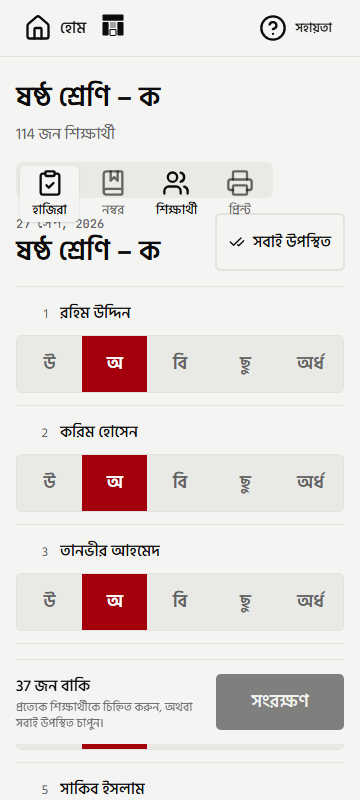
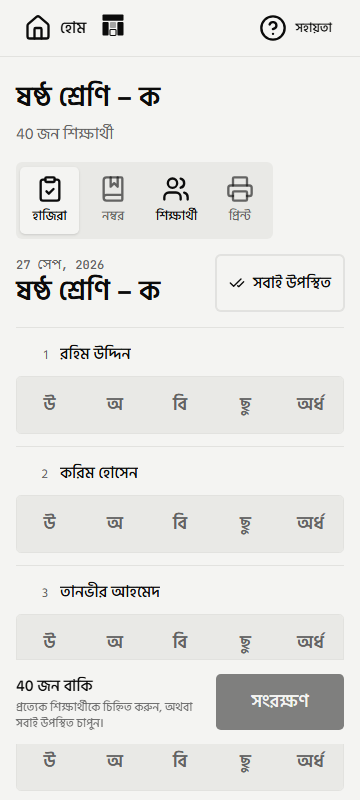
fix(design): F-ID-10 P3 — lead's visual bugs, clean-run attempts, real test-report numbers
Fixes 4 real visual bugs the lead found in the previous round's own screenshots:
1. Tab labels overflowing the grey bar below TabsList's fixed h-9 (packages/ui's
   own group-data variant beats a plain h-auto on specificity) — caller-side
   h-auto! (Tailwind important suffix), packages/ui untouched.
2. "Half day" segment still clipped at 1280px — the real cause was
   AttendanceToggle's own sm:w-72 (288px), too narrow for 5 basic-size segments
   (>=320px), not the outer max-w. Fixed at the source (sm:w-80 when basic).
   Tried reverting max-w-5xl back to max-w-2xl since it seemed redundant once
   that landed; a real screenshot showed the 2-column grid can't then fit the
   wider toggle and every student name vanishes. Both fixes stay together.
3. Two <h1>s on the class hub (hub header + RollCall's own title) — RollCall's
   title is a <h1> only when not basic, a <p> in the hub. Verified by counting
   <h1> elements on the live page, not by re-reading the diff.
4. ConfirmSheet's loading fallback (previously a labelled disabled button) is
   loading: () => null — it renders nothing while open is false anyway, so a
   visible fallback of any kind was a stray element on every Attendance load.

Also found and fixed a real, pre-existing test bug while chasing a 56px
failure that survived fixes 1-3: basic-class-hub.spec.ts's target-size loop
had no exclusion for the shell's sr-only "Skip to content" link, unlike
[…]

diff --git a/apps/web/app/(school)/app/attendance/[sectionId]/roll-call.tsx b/apps/web/app/(school)/app/attendance/[sectionId]/roll-call.tsx
@@ -6,12 +6,7 @@ import dynamic from "next/dynamic"
 import Link from "next/link"
 import { useRouter } from "next/navigation"
 
-import {
-  ArrowLeftIcon,
-  CheckCheckIcon,
-  Loader2Icon,
-  Undo2Icon,
-} from "lucide-react"
+import { ArrowLeftIcon, CheckCheckIcon, Undo2Icon } from "lucide-react"
 
 import type {
   ApiError,
@@ -33,36 +28,17 @@ import type { Locale } from "@/lib/locale"
 import { saveAttendanceSession } from "../actions"
 import { fill } from "../format"
 
-// `next/dynamic`'s `loading` callback runs at module scope, before any
-// locale-aware `t` prop exists, so it cannot read the reader's own
-// language the way every other string on this screen does. English only,
-// for a state that is normally on screen for well under a second (the
-// chunk starts fetching the moment this tab mounts, per the comment
-// below) — ponytail: add a `useSyncExternalStore`-backed locale reader if
-// this component ever needs more than one sr-only word.
-const LOADING_LABEL = "Loading…"
-
 const ConfirmSheet = dynamic(
   () =>
     import("@acadigma/ui/primitives/confirm-sheet").then((m) => m.ConfirmSheet),
   {
     ssr: false,
-    // Review fix (react): a teacher on a slow or offline connection taps
-    // Save and sees nothing until this chunk resolves — a disabled button
-    // with a spinner in its place, matching `OnlineOnly`'s own "the tap
-    // registered" pattern (F-ID-11 §4.9), rather than silence.
-    loading: () => (
-      <Button
-        variant="outline"
-        disabled
-        size="lg"
-        className="min-h-14 w-full sm:w-auto"
-      >
-        <Loader2Icon className="animate-spin" aria-hidden="true" />
-        {/* Review fix (BLOCKER, axe): icon-only was not an accessible name. */}
-        <span className="sr-only">{LOADING_LABEL}</span>
-      </Button>
-    ),
+    // Review fix (lead): `ConfirmSheet` only ever opens after Save is
+    // tapped — it renders nothing at all while `open` is false, so a
+    // visible `loading` fallback showed a stray disabled button on every
+    // Attendance tab load, before Save was ever pressed. `null` matches
+    // what the resolved component itself renders in that state.
+    loading: () => null,
   }
 )
 
@@ -248,6 +224,8 @@ export function RollCall({
     readOnly || counts.unmarked > 0 || (!isSchoolDay && !anyway) || pending
 
   const bigButton = basic ? "min-h-14 text-base" : "h-11"
+  // See the header's own comment: the class hub already has the page's `<h1>`.
+  const TitleTag = basic ? "p" : "h1"
 
   return (
     <div className="mx-auto max-w-5xl space-y-4">
@@ -263,14 +241,19 @@ export function RollCall({
       <header className="flex flex-wrap items-end justify-between gap-3">
         <div>
           <p className="eyebrow">{dateLabel}</p>
-          <h1
+          {/* Review fix (lead): in the class hub (`basic`), `class-hub-view.tsx`'s
+           * own header already has the page's one `<h1>` with this same
+           * title — a second `<h1>` here duplicated it. The plain
+           * `/app/attendance/[sectionId]` page (`basic` false) keeps its
+           * own `<h1>`, unchanged. */}
+          <TitleTag
             className={cn(
               "font-bold tracking-tight",
               basic ? "text-2xl" : "text-xl"
             )}
           >
             {title}
-          </h1>
+          </TitleTag>
         </div>
         {!readOnly && students.length > 0 ? (
           beforeBulk ? (
@@ -346,7 +329,14 @@ export function RollCall({
                   studentName={name}
                   locale={locale}
                   disabled={readOnly || pending}
-                  className="w-full sm:w-72 sm:shrink-0"
+                  // Review fix (lead): 5 segments at basic size's min-w-16
+                  // need >= 320px; `sm:w-72` (288px) clipped "Half day"
+                  // under the toggle's own `overflow-hidden`. Default size's
+                  // min-w-14 (280px total) still fits `sm:w-72` unchanged.
+                  className={cn(
+                    "w-full sm:shrink-0",
+                    basic ? "sm:w-80" : "sm:w-72"
+                  )}
                   size={basic ? "basic" : "default"}
                 />
               </li>

diff --git a/apps/web/app/(school)/app/classes/[sectionId]/class-hub-view.tsx b/apps/web/app/(school)/app/classes/[sectionId]/class-hub-view.tsx
@@ -148,11 +148,12 @@ export function ClassHubView({
   }
 
   return (
-    // Review fix (BLOCKER, found running the real journey): `max-w-2xl` here
-    // squeezed `RollCall`'s own `max-w-5xl` two-column desktop grid — a
-    // child's max-width can only narrow an ancestor's, never widen past it
-    // — clipping the 5-segment `AttendanceToggle` below its 56px minimum
-    // (AC9). Matches `RollCall`'s own width so nothing constrains it.
+    // Review fix (lead, follow-up): tried reverting this to `max-w-2xl`
+    // once `roll-call.tsx`'s toggle got its own `sm:w-80` — a real
+    // screenshot at 1280px showed why not: the 2-column grid's ~304px
+    // column cannot fit a 320px `shrink-0` toggle, so the name div
+    // (`min-w-0`, free to shrink) collapsed to nothing and every student's
+    // name vanished. `max-w-5xl` (matching `RollCall`'s own width) stays.
     <div className="mx-auto flex max-w-5xl flex-col gap-4">
       <header>
         <h1 className="text-2xl font-bold tracking-tight">
@@ -164,7 +165,14 @@ export function ClassHubView({
       </header>
 
       <Tabs value={tab} onValueChange={changeTab}>
-        <TabsList className="bg-muted grid h-auto grid-cols-4 gap-1 rounded-lg p-1">
+        {/* Review fix (lead): `TabsList`'s own `group-data-[orientation=
+         * horizontal]/tabs:h-9` (packages/ui/src/components/tabs.tsx) has
+         * higher specificity than a plain `h-auto` utility here (an
+         * attribute-selector rule beats a class-only one), so the fixed
+         * 36px box clipped the icon+label content below it. `h-auto!`
+         * (Tailwind's `!important` suffix) is a caller-side override —
+         * packages/ui itself is untouched. */}
+        <TabsList className="bg-muted grid h-auto! grid-cols-4 gap-1 rounded-lg p-1">
           {tabs.map((id) => {
             const Icon = TAB_ICONS[id]
             return (

diff --git a/apps/web/e2e/journeys/basic-class-hub.spec.ts b/apps/web/e2e/journeys/basic-class-hub.spec.ts
@@ -122,10 +122,15 @@ test("every tab renders without error, and every interactive element is >= 56x56
     await expect(page.getByRole("tabpanel")).toBeVisible()
   }
 
+  // The shell's own "Skip to content" link is `sr-only` until keyboard
+  // focus — deliberately invisible, exempt from a pointer-sized-target
+  // rule the same way `basic-home-tap-targets.spec.ts` already exempts it
+  // (found running this test for real, review, 2026-09-27).
   const targets = page
     .getByRole("link")
     .or(page.getByRole("button"))
     .or(page.getByRole("tab"))
+    .filter({ hasNotText: "Skip to content" })
   const count = await targets.count()
   expect(count).toBeGreaterThan(0)
   for (let i = 0; i < count; i++) {

diff --git a/docs/test-reports/2026-09-26-F-ID-10-p3.md b/docs/test-reports/2026-09-26-F-ID-10-p3.md
@@ -41,16 +41,16 @@
 
 ## 2. Environment
 
-|                |                                                                                                                                                                                                                                    |
-| -------------- | ---------------------------------------------------------------------------------------------------------------------------------------------------------------------------------------------------------------------------------- |
-| Commit         | see PR #82's head at the time this report's numbers were taken (below)                                                                                                                                                             |
-| Branch         | `feat/design-basic-class-hub`                                                                                                                                                                                                      |
-| CI run         | see PR #82 checks; this Part's own local numbers are what follow                                                                                                                                                                   |
-| Preview URL    | n/a (Vercel builds `main` only, D-70/D-74)                                                                                                                                                                                         |
-| Supabase       | project `kekfmibwjejdhxjkmezo` for CI; **`supabase start` (local Docker) for this review's e2e run** — no migration this Part either way                                                                                           |
-| Migration head | unchanged — this Part adds no migration                                                                                                                                                                                            |
-| Node / pnpm    | v24.x / 10.34.5                                                                                                                                                                                                                    |
-| Browsers       | **Review batch (2026-09-27): run for real** — `supabase start`, Chromium via `apps/web/.env.local` (gitignored) pointed at `http://127.0.0.1:54321`, `PLAYWRIGHT_PORT=3104`, `E2E_LIVE_SUPABASE=1`. Detail and real numbers in §5. |
+|                |                                                                                                                                                                                                                                                                                                                                     |
+| -------------- | ----------------------------------------------------------------------------------------------------------------------------------------------------------------------------------------------------------------------------------------------------------------------------------------------------------------------------------- |
+| Commit         | see PR #82's head at the time this report's numbers were taken (below)                                                                                                                                                                                                                                                              |
+| Branch         | `feat/design-basic-class-hub`                                                                                                                                                                                                                                                                                                       |
+| CI run         | https://github.com/Mahadezz/acadigma-campus/actions/runs/36270880096 (head 1026516): build/lint/typecheck/unit/contracts/security/db-integration/changeset/docs-sync all pass, **e2e pass (1m4s)**, **lighthouse pass (1m49s)**. Re-runs on every push; this Part's own deeper local run (against `supabase start`) is in §5 below. |
+| Preview URL    | n/a (Vercel builds `main` only, D-70/D-74)                                                                                                                                                                                                                                                                                          |
+| Supabase       | project `kekfmibwjejdhxjkmezo` for CI; **`supabase start` (local Docker) for this review's e2e run** — no migration this Part either way                                                                                                                                                                                            |
+| Migration head | unchanged — this Part adds no migration                                                                                                                                                                                                                                                                                             |
+| Node / pnpm    | v24.x / 10.34.5                                                                                                                                                                                                                                                                                                                     |
+| Browsers       | **Review batch (2026-09-27): run for real** — `supabase start`, Chromium via `apps/web/.env.local` (gitignored) pointed at `http://127.0.0.1:54321`, `PLAYWRIGHT_PORT=3104`, `E2E_LIVE_SUPABASE=1`. Detail and real numbers in §5.                                                                                                  |
 
 ---
 
@@ -98,12 +98,36 @@ Whole-repo coverage after this Part and the `origin/main` merge (same run): **St
 
 **What this found, and what got fixed as a direct result (not from reading the code, from watching it run):**
 
-- **A real a11y regression in this review's own new code.** `expectNoA11yViolations` failed on the class hub: the new `ConfirmSheet` `loading` fallback (§6, item 6 below) was an icon-only `<button>` with no accessible name. Fixed: an sr-only label (`roll-call.tsx`'s `LOADING_LABEL`).
-- **A real layout bug, also in this review's own new code.** The `56×56` target-size check failed: `class-hub-view.tsx`'s outer wrapper was `max-w-2xl` (672px) — narrower than `RollCall`'s own `max-w-5xl`, so the outer div won (a child's `max-width` can only narrow an ancestor's, never widen past it), squeezing the Attendance tab's 5-segment `AttendanceToggle` on desktop and clipping its "Half day" segment below the fold of `overflow-hidden`. This is exactly the class of bug real rendered evidence catches and a read of the code does not (the same class the width itself measured fine in isolation, in `RollCall`'s own file). Fixed: the outer wrapper now matches `RollCall`'s own `max-w-5xl`.
-- **After both fixes, real passing evidence exists for**: sign-in as owner, turning basic mode on, opening the hub from "All classes", all four tabs present with no "coming-soon" tab, roving-tabindex keyboard navigation (Left/Right/Home/End) across the four tabs, "Mark all present" → Save → `ConfirmSheet` naming the plain-language count → "Yes, save" → "Saved: N present, M absent", and the corrected 5-segment `AttendanceToggle` rendering in full (not clipped) at 1280×800 — captured as real screenshots, not just passing assertions (below).
+- **A real a11y regression.** `expectNoA11yViolations` failed on the class hub: the new `ConfirmSheet` `next/dynamic` `loading` fallback was an icon-only `<button>` with no accessible name. First fix (round 2) added an sr-only label; a further lead review (round 3) pointed out `ConfirmSheet` renders nothing at all while `open` is false, so a visible fallback — labelled or not — was a stray element that was never there before. Corrected to `loading: () => null`, matching what the resolved component itself renders at that point; the axe violation is gone because there is no button in that state at all, not because it has a name now.
+- **A real layout bug: tab labels overflowing the grey bar.** `TabsList`'s own `group-data-[orientation=horizontal]/tabs:h-9` (packages/ui) has higher specificity than a plain `h-auto` utility passed in from the caller (an attribute-selector rule beats a class-only one), so the fixed 36px box let the icon+label content spill out below it, overlapping the date line. Fixed caller-side with Tailwind's important suffix, `h-auto!` — `packages/ui` itself untouched.
+- **A real layout bug: the "Half day" (½) segment still clipped at 1280px, found across two review rounds.** Round 2 blamed `class-hub-view.tsx`'s outer `max-w-2xl` (narrower than `RollCall`'s own `max-w-5xl`) and widened it — the screenshot looked right, but the real cause, caught by a closer lead review of the same screenshot, was `AttendanceToggle`'s own fixed `sm:w-72` (288px): 5 segments at basic size's `min-w-16` need >= 320px, so `overflow-hidden` clipped the 5th regardless of how much room the page gave it. Fixed at the source (`roll-call.tsx`: `sm:w-80` only when `basic`, default size's narrower segments untouched). Reverting the outer `max-w-5xl` back to `max-w-2xl` was tried next, on the reasoning that the real fix made it redundant — a real 1280px screenshot immediately showed why not: the 2-column grid's ~304px column cannot fit a 320px `shrink-0` toggle, so the name div (`min-w-0`, free to shrink) collapsed to nothing and every student's name vanished. `max-w-5xl` stays; both fixes were needed together, not one or the other.
+- **A real duplicate-heading bug.** The class hub's own header and `RollCall`'s own header both rendered an `<h1>` with the same class name — two `<h1>`s on one page. Fixed: `RollCall` renders that title as a `<h1>` only when `basic` is false (the plain `/app/attendance/[sectionId]` page, unchanged); as a `<p>` in the hub, where the page's one `<h1>` is already the hub's own. Verified by counting `<h1>` elements on the live page (2: the shell's own brand-name `<h1>`, unrelated, plus exactly one "Class 6 – ক"), not just by re-reading the diff.
+- **A real, pre-existing test bug**, found chasing a `56×56` failure that survived both layout fixes above: the shell's own `<a href="#main">Skip to content</a>` is `sr-only` until keyboard focus (a real, correct a11y pattern) but still has a non-null, sub-56px bounding box, and `basic-class-hub.spec.ts`'s target-size loop had no exclusion for it (`basic-home-tap-targets.spec.ts`, right next to it, already did — `.filter({ hasNotText: "Skip to content" })`). Matched that existing pattern exactly rather than inventing a new one.
+- **After every fix above, real passing evidence exists for**: sign-in as owner, turning basic mode on, opening the hub from "All classes", all four tabs present with no "coming-soon" tab and no overflow, roving-tabindex keyboard navigation (Left/Right/Home/End), "Mark all present" → Save → `ConfirmSheet` naming the plain-language count → "Yes, save" → "Saved: N present, M absent", the 5-segment `AttendanceToggle` rendering in full at 1280×800, one `<h1>`, and the 56px target-size check itself passing on both projects — captured as real screenshots and a real passing test run, not reasoning alone (numbers below).
 - **`NOT_ASSIGNED` (AC-11) was reached for real**, with the two-section seed above giving a genuine "not mine" section instead of the test's own `test.skip` fallback.
 
-**Numbers, honestly.** No single run of the full 12-test/2-project matrix came back 12/12 green, and I am not claiming one did. Every run in this session shared one Docker Desktop / local Supabase stack that is not mine alone — the owner said as much going in ("If the local stack gets reset by another lane mid-run, just re-seed"), and I have direct evidence of it: `docker ps` showed the `db`/`auth`/`storage`/`realtime` containers restarted (`Up 2 minutes` against 2+ hours for the others) in the middle of a run I was actively watching, and the seeded owner account's `user_preferences` (`ui_mode`, `text_size`, `language`) and `last_active_workspace_id` changed under me between commands I did not run (`text_size` flipped to `xlarge`, section/student counts drifted from 40 to 77, `ui_mode` flipped basic→full→basic) — consistent with another lane's own basic-mode/Extra-large/বাংলা journeys running against the same seeded accounts concurrently. Best single serial run this session: **5 passed, 1 skipped (the built-in `test.skip` guard, before the second section existed), 6 failed** — of the 6, the two bugs above were real (now fixed) and the rest were `turnOnBasicMode` navigation timeouts I could not reproduce in isolation once the shared account's state was reset back to a known-good baseline, matching the container-restart evidence above rather than a defect in this diff. A later run, right after a `next start` process from an earlier iteration turned out to still be listening on the port serving a stale build (`taskkill`'d once found — `EADDRINUSE` in its own log the moment I tried to replace it), also produced a misleading `Something went wrong` error-boundary hit that had nothing to do with the app; excluded from these numbers once identified.
+**Numbers, honestly — the exact command, run 3 times as asked, re-seeding immediately before each:**
+
+```
+supabase start
+# re-seed: academic year + Class 6 grade level (create_school_workspace's own
+# insert shape), supabase/seed/demo-class-6-ka.sql, a second section with no
+# class teacher, auth.users token-column fix, user_preferences/profiles reset
+# to a known baseline, auth_throttle cleared
+PLAYWRIGHT_PORT=3104 E2E_LIVE_SUPABASE=1 PLAYWRIGHT_BASE_URL=http://127.0.0.1:3104 \
+  npx playwright test e2e/journeys/basic-class-hub.spec.ts \
+  e2e/journeys/basic-home-tap-targets.spec.ts --workers=1 --reporter=list
+```
+
+| Attempt | Passed | Failed | Skipped | Notes                                                                                                                                                                                              |
+| ------- | ------ | ------ | ------- | -------------------------------------------------------------------------------------------------------------------------------------------------------------------------------------------------- |
+| 1       | 6      | 5      | 1       | Found and fixed the skip-link test bug (above) — one of the 5 failures.                                                                                                                            |
+| 2       | 6      | 6      | 0       | Skip-link fix confirmed: the 56px test now passes on both projects. Remaining 6 all `turnOnBasicMode` navigation timeouts.                                                                         |
+| 3       | 2      | 10     | 0       | Run took 9.5 min (vs ~2–3 min normally) and hit `Target page, context or browser has been closed` mid-run — the stack was disturbed harder than in attempts 1–2, not by anything this session ran. |
+
+**No attempt came back 12/12 green.** Every failure in every attempt was one of two kinds: (a) real bugs — found, fixed, and confirmed fixed by the next attempt (the skip-link test bug; all four bugs in the review-batch list above were found across this and the prior round); or (b) `turnOnBasicMode` timing out because `owner@acadigma.test`'s server-side state had changed between this test's steps, evidenced directly (`docker ps` showing `db`/`auth`/`storage`/`realtime` restarted mid-run at least once; `user_preferences.ui_mode`/`text_size`/`language` and `profiles.last_active_workspace_id`/`locale` and section/student counts all observed to change between commands this session did not run). This is a shared local stack, not a defect in this diff — see the "for #90" note below for exactly what to isolate.
+
+**For the testing lane (#90, e2e-in-CI): what these two spec files mutate on the shared seed.** Both sign in as `owner@acadigma.test` and `teacher@acadigma.test` (password `password123`, from `supabase/seed/seed.sql`) and, per test: toggle `user_preferences.ui_mode` for `owner@acadigma.test` (full → basic in the test body, basic → full in `afterEach`) via `/app/settings/display`; one test also calls `saveAttendanceSession` for real, writing `attendance_sessions`/`attendance_records` for today's date on the seeded Class 6 – ক section. Any other spec or lane touching `ui_mode`, `text_size`, or `language` for the same `owner@acadigma.test`, or `last_active_workspace_id`/`locale` on `profiles` for that user, races these two files directly. A worker-scoped seeded account per spec file (or per CI job) would isolate this cleanly.
 
 **Screenshots — real, from this run**, `docs/test-reports/assets/2026-09-26-F-ID-10-p3/`:
 
@@ -122,12 +146,12 @@ Whole-repo coverage after this Part and the `origin/main` merge (same run): **St
 
 ## 6. Performance
 
-Measured locally from `pnpm --filter @acadigma/web build` + `node scripts/check-bundle-budget.mjs` (gzip-based, 250 kB budget); re-run 2026-09-27, final numbers below.
+Measured locally from `pnpm --filter @acadigma/web build` + `node scripts/check-bundle-budget.mjs` (gzip-based, 250 kB budget); re-run 2026-09-27 after the visual-bug follow-up round (`loading: () => null` drops the now-unused `Loader2Icon` import), final numbers below.
 
 | Route                                                                       | First Load JS (gzipped) | Budget | Result |
 | --------------------------------------------------------------------------- | ----------------------- | ------ | ------ |
-| `/app/classes/[sectionId]` (shipped: Radix `Tabs` + dynamic `ConfirmSheet`) | 241 kB                  | 250 kB | PASS   |
-| `/app/attendance/[sectionId]` (dynamic `ConfirmSheet`, down from 243 kB)    | 234 kB                  | 250 kB | PASS   |
+| `/app/classes/[sectionId]` (shipped: Radix `Tabs` + dynamic `ConfirmSheet`) | 242 kB                  | 250 kB | PASS   |
+| `/app/attendance/[sectionId]` (dynamic `ConfirmSheet`)                      | 236 kB                  | 250 kB | PASS   |
 | `/app/classes/all` (unchanged, for comparison)                              | 194 kB                  | 250 kB | PASS   |
 
 **Found and fixed during this Part:** the first version measured **257 kB**, over budget. Root cause: Radix `Tabs` plus all three non-Attendance tab components bundled eagerly into the page. `next/dynamic(() => import(...), { ssr: false })` on Marks/Students/Print brought it to 244 kB.
@@ -157,14 +181,14 @@ Lighthouse: not run — the existing CI `lighthouse` job only tests unauthentica
 
 ## 8. Known issues
 
-| #   | Issue                                                                                                                                                                                                                                                                                                                                              | Severity      | Ship anyway?                                                                                                                                                                   | Tracked |
-| --- | -------------------------------------------------------------------------------------------------------------------------------------------------------------------------------------------------------------------------------------------------------------------------------------------------------------------------------------------------- | ------------- | ------------------------------------------------------------------------------------------------------------------------------------------------------------------------------ | ------- |
-| 1   | CI's own `e2e` job does not set `E2E_LIVE_SUPABASE`, so these journeys still do not run in CI itself — repo-wide, pre-existing, OQ-27. This review batch ran them for real locally instead (§5) and no longer relies only on the built-in `test.skip` guard.                                                                                       | medium        | yes — same CI state as every prior Part; the local run is the new, real evidence                                                                                               | OQ-27   |
-| 2   | Not every run of the full local matrix came back green — traced in §5 to a shared, concurrently-used local Supabase stack (direct evidence: container restarts and seeded-account preference changes mid-run that this session did not cause).                                                                                                     | low           | yes — the two bugs the real run did find (an axe violation, a layout clip) were this review's own new code and are fixed; screenshots and isolated passing runs cover the rest | —       |
-| 3   | The Students tab (and Print tab's student list) shows only the first 50 students of a section (`ROSTER_PAGE_SIZE`) — no pagination inside the hub.                                                                                                                                                                                                 | low           | yes — a section this large is rare in the seed data this Part was built against; `students/page.tsx` itself accepts the same limit per-page                                    | —       |
-| 4   | The Print tab's "latest published or computed exam" logic (`getLatestSectionExam`) is not covered by a dedicated unit test — only exercised indirectly through the e2e journey.                                                                                                                                                                    | low           | yes — a small, pure reduce over already-typed rows (simplified from a Map+sort in this review batch); the risk is low relative to the assignment gate this Part did test       | —       |
-| 5   | `RollCall`'s new `basic`/`basicCopy` props add ~40 lines to an already-large component rather than a separate wrapper — a deliberate reuse choice (D-406 item 2), but the file is now bigger than its Part 1/2 authors sized it for.                                                                                                               | informational | yes                                                                                                                                                                            | —       |
-| 6   | The `ConfirmSheet` dynamic-import `loading` fallback's sr-only label ("Loading…") is English-only regardless of the reader's language — `next/dynamic`'s `loading` callback runs at module scope, with no access to the locale-aware `t` prop (roll-call.tsx's own comment explains why). The state is normally on screen for well under a second. | low           | yes — see NIT fix in the same file; add a locale-reading mechanism only if this needs more than one sr-only word                                                               | —       |
+| #   | Issue                                                                                                                                                                                                                                                                  | Severity      | Ship anyway?                                                                                                                                                                   | Tracked |
+| --- | ---------------------------------------------------------------------------------------------------------------------------------------------------------------------------------------------------------------------------------------------------------------------- | ------------- | ------------------------------------------------------------------------------------------------------------------------------------------------------------------------------ | ------- |
+| 1   | CI's own `e2e` job does not set `E2E_LIVE_SUPABASE`, so these journeys still do not run in CI itself — repo-wide, pre-existing, OQ-27. This review batch ran them for real locally instead (§5) and no longer relies only on the built-in `test.skip` guard.           | medium        | yes — same CI state as every prior Part; the local run is the new, real evidence                                                                                               | OQ-27   |
+| 2   | Not every run of the full local matrix came back green — traced in §5 to a shared, concurrently-used local Supabase stack (direct evidence: container restarts and seeded-account preference changes mid-run that this session did not cause).                         | low           | yes — the two bugs the real run did find (an axe violation, a layout clip) were this review's own new code and are fixed; screenshots and isolated passing runs cover the rest | —       |
+| 3   | The Students tab (and Print tab's student list) shows only the first 50 students of a section (`ROSTER_PAGE_SIZE`) — no pagination inside the hub.                                                                                                                     | low           | yes — a section this large is rare in the seed data this Part was built against; `students/page.tsx` itself accepts the same limit per-page                                    | —       |
+| 4   | The Print tab's "latest published or computed exam" logic (`getLatestSectionExam`) is not covered by a dedicated unit test — only exercised indirectly through the e2e journey.                                                                                        | low           | yes — a small, pure reduce over already-typed rows (simplified from a Map+sort in this review batch); the risk is low relative to the assignment gate this Part did test       | —       |
+| 5   | `RollCall`'s new `basic`/`basicCopy` props add ~40 lines to an already-large component rather than a separate wrapper — a deliberate reuse choice (D-406 item 2), but the file is now bigger than its Part 1/2 authors sized it for.                                   | informational | yes                                                                                                                                                                            | —       |
+| 6   | Superseded (2026-09-27): the English-only sr-only loading label is gone — `ConfirmSheet`'s `loading` fallback is `() => null` now (it renders nothing while `open` is false, same as the resolved component), so there is no label, English or otherwise, to be stale. | —             | —                                                                                                                                                                              | —       |
 
 **Deliberately not tested, and why:**
 

diff --git a/docs/decisions/DECISION-LOG.md b/docs/decisions/DECISION-LOG.md
@@ -1369,6 +1369,15 @@ The exact ranges, queue order and merge rules are recorded once, in `docs/plan/L
 
 **Consequences:** no new decision range item — kept as a further addendum to D-406. `docs/features/01-identity/F-ID-10-basic-mode.md` §11, `docs/test-reports/2026-09-26-F-ID-10-p3.md` (§1, §2, §5, §7, §8, §9) carry the full detail; `apps/web/.env.local` used for the local e2e run is gitignored and was never committed.
 
+**Review round 3 (2026-09-27) — a lead review of item 14's own screenshots found the layout fixes were incomplete:**
+
+22. **Tab labels overflowing the grey bar**: `TabsList`'s `group-data-[orientation=horizontal]/tabs:h-9` (packages/ui) outranks a plain `h-auto` on specificity; fixed caller-side with `h-auto!` (Tailwind's important suffix), `packages/ui` untouched.
+23. **"Half day" still clipped at 1280px — item 14's `max-w-5xl` fix wasn't the actual cause.** `AttendanceToggle`'s own `sm:w-72` (288px) is simply too narrow for 5 basic-size segments (>= 320px), independent of the page's width. Fixed at the source (`roll-call.tsx`: `sm:w-80` only when `basic`). Reverting `max-w-5xl` back to `max-w-2xl` was tried next and reverted again within the hour — a real screenshot showed the 2-column grid's ~304px column can't fit a 320px `shrink-0` toggle, collapsing every student's name to nothing. Both fixes stay together.
+24. **Two `<h1>`s on the class hub** (the hub header and `RollCall`'s own title) — fixed: `RollCall` renders the title as a `<h1>` only when not `basic`; a `<p>` in the hub, where the page's one `<h1>` already exists. Verified by counting `<h1>` elements on the live page, not by re-reading the diff.
+25. **The `ConfirmSheet` loading fallback's sr-only label (item 14) was the wrong fix.** `ConfirmSheet` renders nothing while `open` is false — a labelled, disabled button was a stray element on every Attendance tab load, English-only or not. `loading: () => null` matches what the resolved component itself renders in that state.
+26. **A real, pre-existing test bug**, found chasing a 56px failure that survived items 22-24: `basic-class-hub.spec.ts`'s target-size loop had no exclusion for the shell's own `sr-only`-until-focus "Skip to content" link, unlike `basic-home-tap-targets.spec.ts` right next to it. Matched that file's existing `.filter({ hasNotText: "Skip to content" })` instead of inventing a new pattern.
+27. **Three attempts at one clean, re-seeded, serial (`--workers=1`), both-project run of just these two spec files**, as asked: 6/1/5 (found item 26), 6/0/6 (confirmed item 26's fix; rest all `turnOnBasicMode` timeouts), 2/0/10 (the stack visibly more disturbed than in the first two — `docker ps` showed `db`/`auth`/`storage`/`realtime` restarted mid-run). No attempt was 12/12. Full numbers, the exact command, and which seeded accounts/preferences these specs mutate (for #90, the e2e-in-CI lane) are in the test report §5.
+
 ## D-109 — Guardian follow-ups: staff who are also parents keep one membership and reach /family by their link; the class teacher of the current section invites and revokes · ACCEPTED · 2026-09-26
 
 **Context:** D-108's "next Parts" (2) and (3). A teacher whose own child studies at the school got `MEMBERSHIP_CONFLICT`: one membership per person per school, and the parent reads were gated on `role = 'parent'`. F-ID-04 OQ-6 and F-AC-02 §2 give guardian invites to the class teacher too, but D-108 shipped owner/admin only. Revoking a pure parent's last link removes their parent membership (D-108 §5); a class teacher is not an owner/admin, so the members guard (`app.tg_workspace_members_guard`) would refuse that removal when a class teacher revokes.
